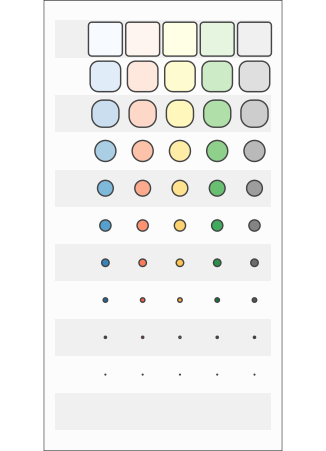
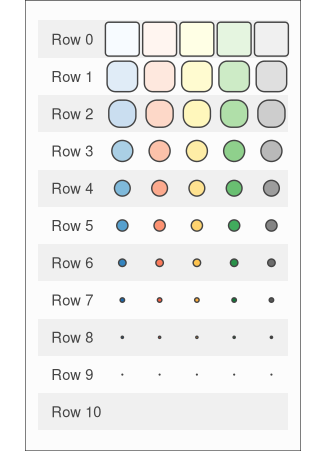
add labels

diff --git a/README.md b/README.md
@@ -72,11 +72,16 @@ Construct background rects
 
 ``` r
 row_rects <- tibble(
-  xmin = min(df2$xmin) - 1,
+  xmin = min(df2$xmin) - 2,
   xmax = max(df2$xmax),
   y = seq(0, 11, by = 2.2),
   ymin = y - .55,
   ymax = y + .55
+)
+row_text <- tibble(
+  x = -1,
+  y = unique(df$y),
+  label = paste0("Row ", seq(10, 0))
 )
 ```
 
@@ -91,11 +96,12 @@ df3 <- df2 %>%
     col_val = light_palettes[[palette[[1]]]][col_ix]
   )
 
-gl <- 
-  ggplot(df3, aes(xmin = xmin, xmax = xmax, ymin = ymin, ymax = ymax)) +
-  geom_rect(aes(fill = light_alt), row_rects) +
+gl <-
+  ggplot(df3) +
+  geom_rect(aes(xmin = xmin, xmax = xmax, ymin = ymin, ymax = ymax, fill = light_alt), row_rects) +
+  geom_text(aes(x = x, y = y, label = label), row_text, hjust = 0, color = dark_alt) +
   funkyheatmap::geom_rounded_rect(
-    aes(radius = corner_size, fill = col_val),
+    aes(xmin = xmin, xmax = xmax, ymin = ymin, ymax = ymax, radius = corner_size, fill = col_val),
     size = .5, colour = dark_alt
   ) +
   coord_equal() +
@@ -119,10 +125,11 @@ df3 <- df2 %>%
   )
 
 gd <- 
-  ggplot(df3, aes(xmin = xmin, xmax = xmax, ymin = ymin, ymax = ymax)) +
-  geom_rect(aes(fill = dark_alt), row_rects) +
+  ggplot(df3) +
+  geom_rect(aes(xmin = xmin, xmax = xmax, ymin = ymin, ymax = ymax, fill = dark_alt), row_rects) +
+  geom_text(aes(x = x, y = y, label = label), row_text, hjust = 0, color = light_alt) +
   funkyheatmap::geom_rounded_rect(
-    aes(radius = corner_size, fill = col_val),
+    aes(xmin = xmin, xmax = xmax, ymin = ymin, ymax = ymax, radius = corner_size, fill = col_val),
     size = .5, colour = light_alt
   ) +
   coord_equal() +
@@ -146,10 +153,11 @@ df3 <- df2 %>%
   )
 
 gl2 <- 
-  ggplot(df3, aes(xmin = xmin, xmax = xmax, ymin = ymin, ymax = ymax)) +
-  geom_rect(aes(fill = light_alt), row_rects) +
+  ggplot(df3) +
+  geom_rect(aes(xmin = xmin, xmax = xmax, ymin = ymin, ymax = ymax, fill = light_alt), row_rects) +
+  geom_text(aes(x = x, y = y, label = label), row_text, hjust = 0, color = dark_alt) +
   funkyheatmap::geom_rounded_rect(
-    aes(radius = corner_size, fill = col_val),
+    aes(xmin = xmin, xmax = xmax, ymin = ymin, ymax = ymax, radius = corner_size, fill = col_val),
     size = .5, colour = dark_alt
   ) +
   coord_equal() +
@@ -181,10 +189,11 @@ df3 <- df2 %>%
   )
 
 gd2 <-
-  ggplot(df3, aes(xmin = xmin, xmax = xmax, ymin = ymin, ymax = ymax)) +
-  geom_rect(aes(fill = dark_alt), row_rects) +
+  ggplot(df3) +
+  geom_rect(aes(xmin = xmin, xmax = xmax, ymin = ymin, ymax = ymax, fill = dark_alt), row_rects) +
+  geom_text(aes(x = x, y = y, label = label), row_text, hjust = 0, color = light_alt) +
   funkyheatmap::geom_rounded_rect(
-    aes(radius = corner_size, fill = col_val),
+    aes(xmin = xmin, xmax = xmax, ymin = ymin, ymax = ymax, radius = corner_size, fill = col_val),
     size = .5, colour = light_alt
   ) +
   coord_equal() +
